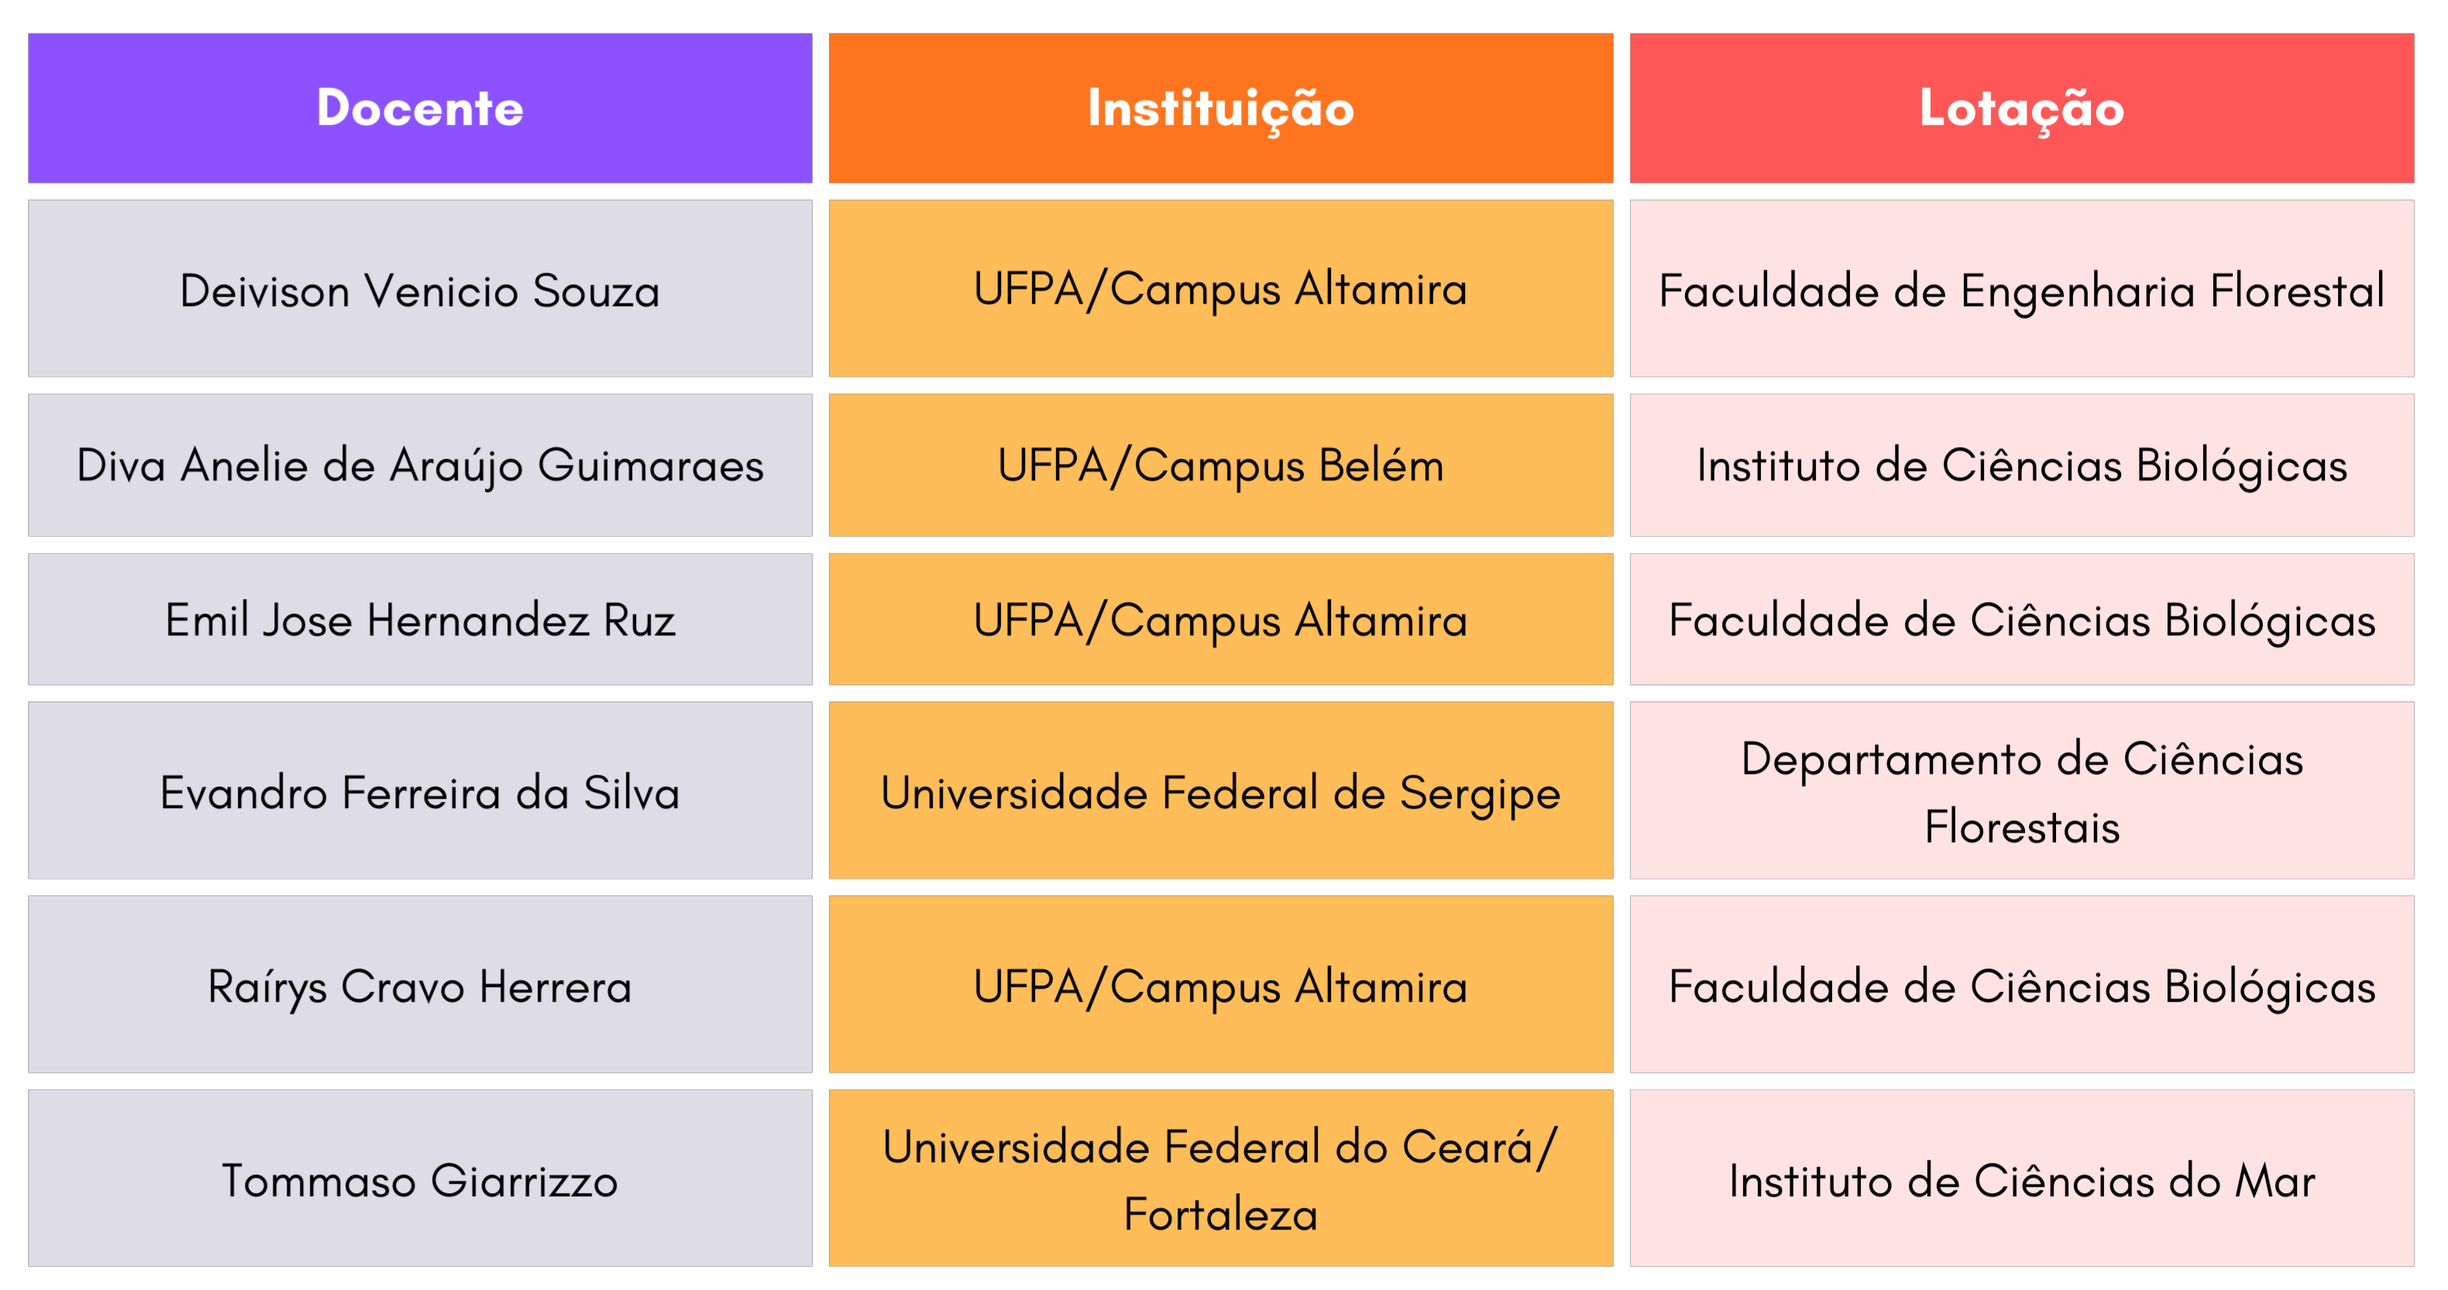
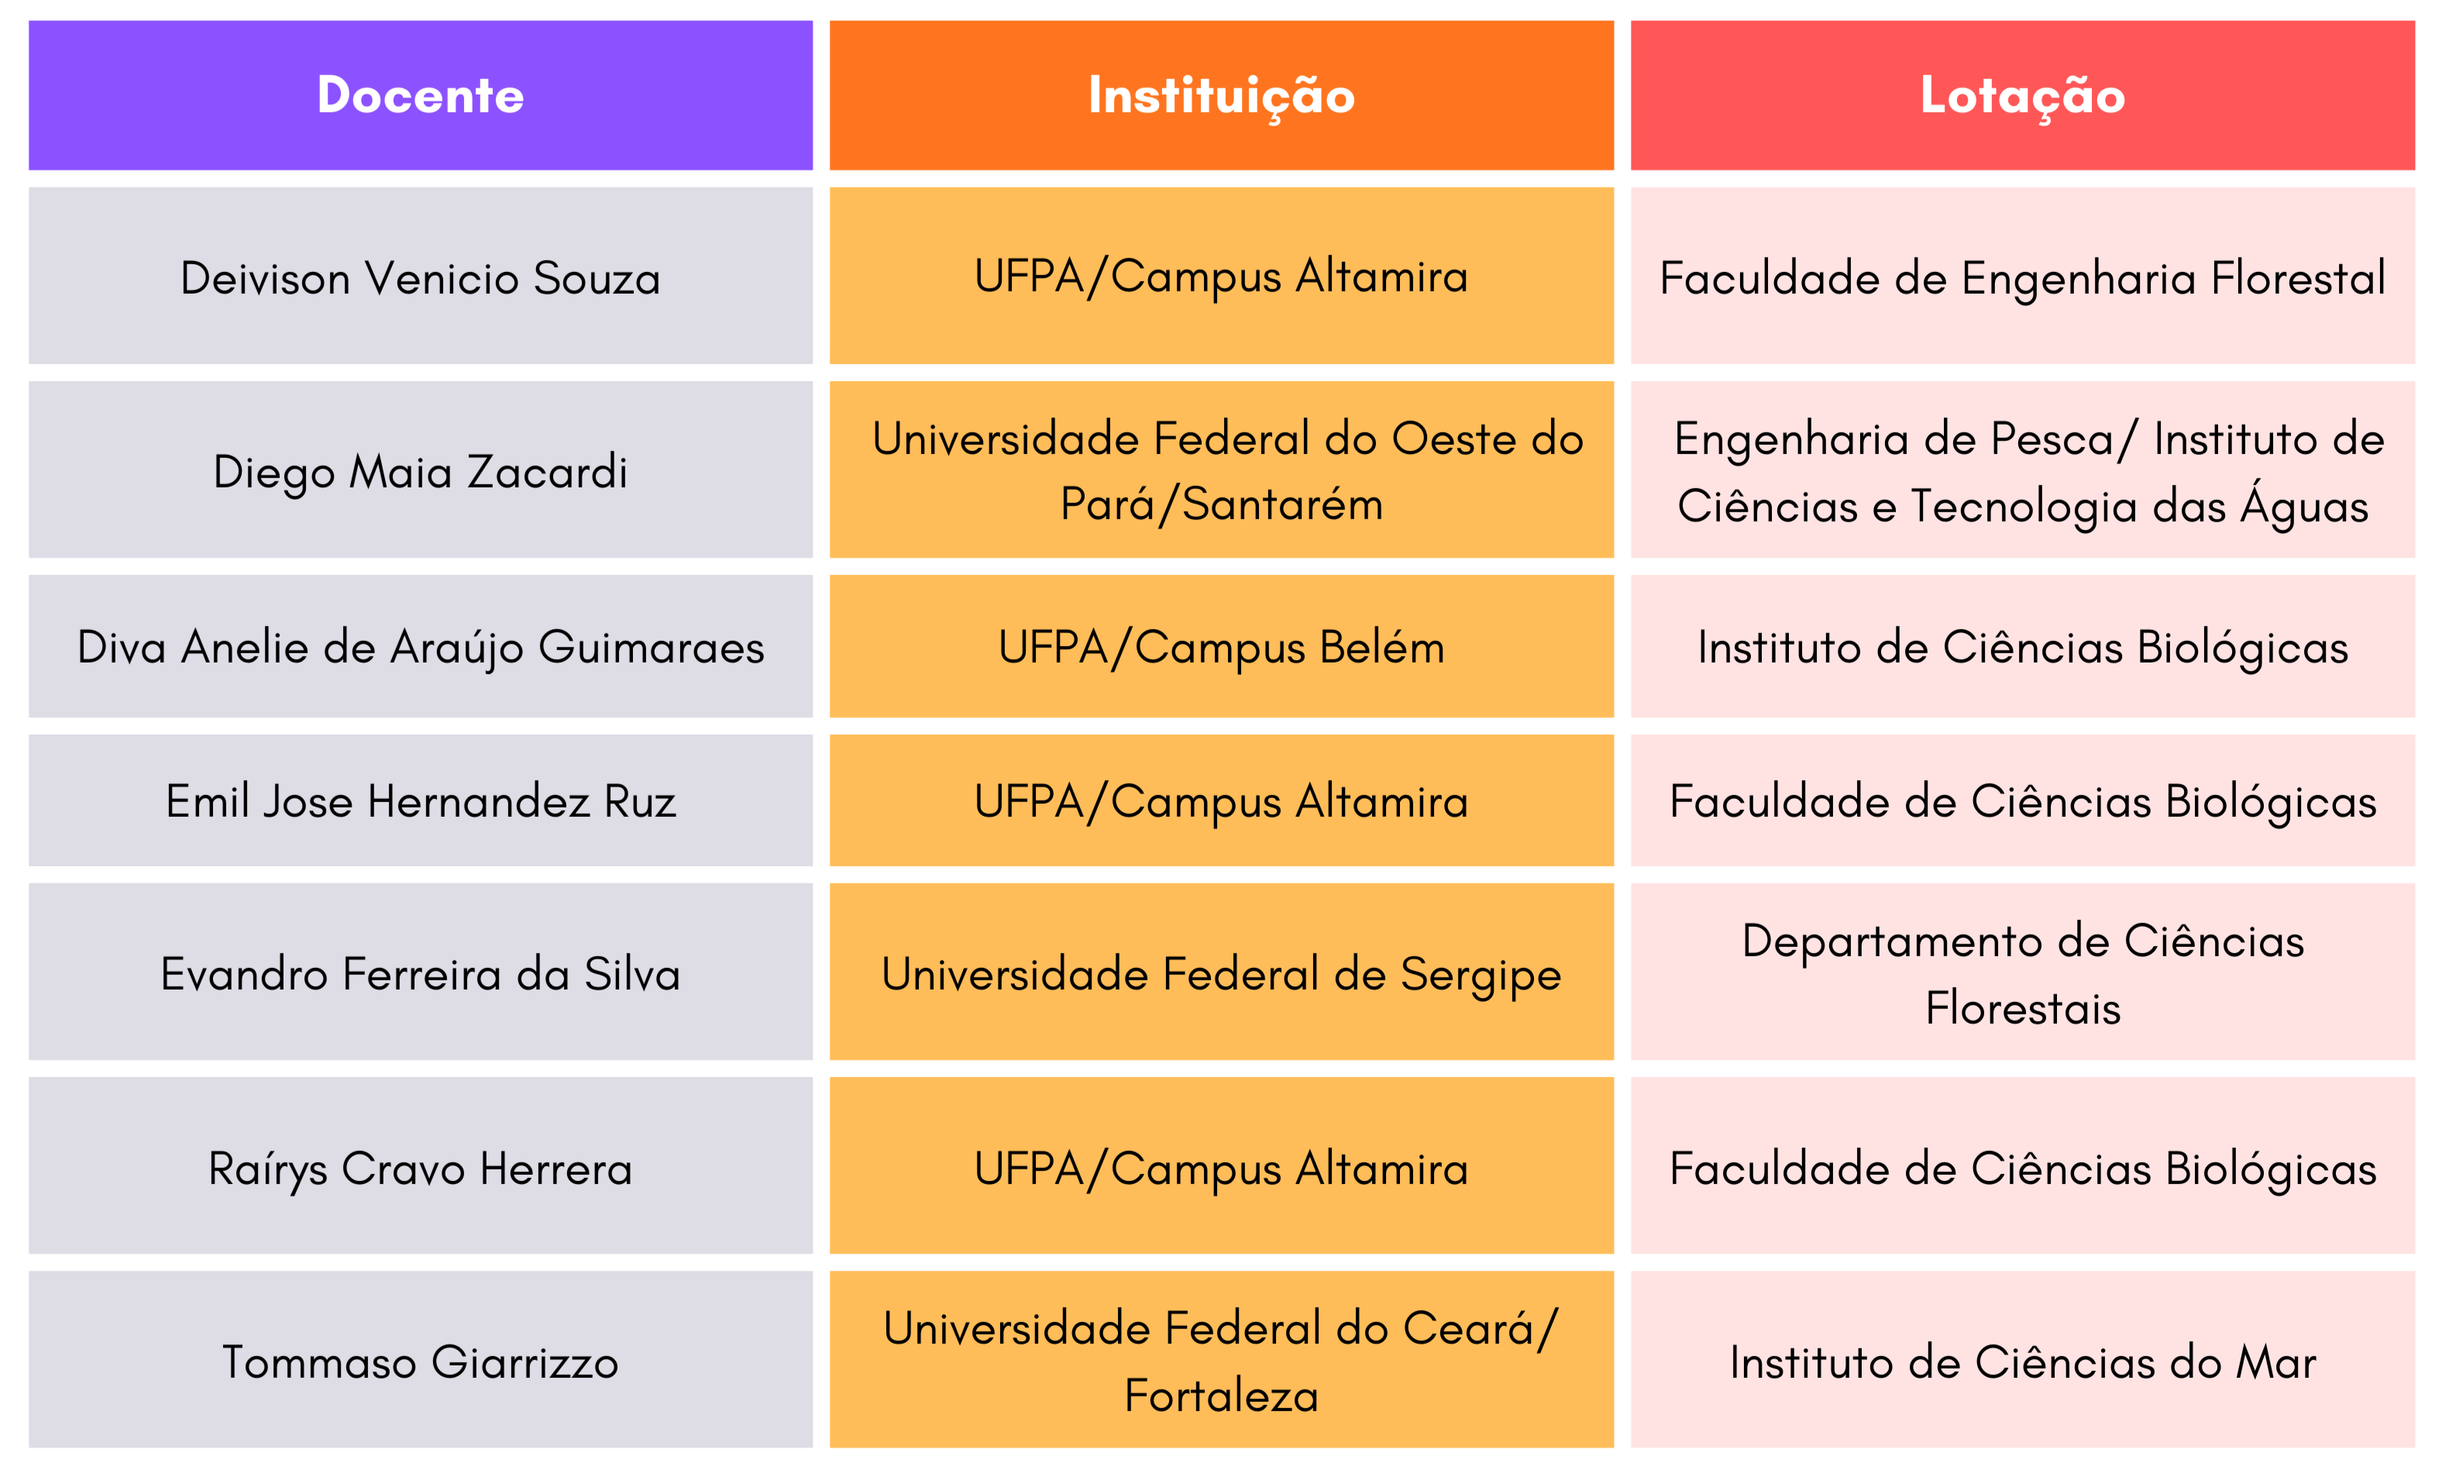
Update

diff --git a/Slides/01-CMBA.html b/Slides/01-CMBA.html
@@ -14,7 +14,7 @@
     <link href="01-CMBA_files/xaringanExtra-extra-styles-0.2.6/xaringanExtra-extra-styles.css" rel="stylesheet" />
     <link href="01-CMBA_files/tile-view-0.2.6/tile-view.css" rel="stylesheet" />
     <script src="01-CMBA_files/tile-view-0.2.6/tile-view.js"></script>
-    <script type="application/json" id="xaringanExtra-editable-docid">{"id":"x97854d9405e4aae9bdd31a2872f340a","expires":1}</script>
+    <script type="application/json" id="xaringanExtra-editable-docid">{"id":"x221f8fc69ad4d7ebe325c4ae1e1305c","expires":1}</script>
     <script src="01-CMBA_files/himalaya-1.1.0/himalaya.js"></script>
     <script src="01-CMBA_files/js-cookie-3.0.0/js.cookie.js"></script>
     <link href="01-CMBA_files/editable-0.2.6/editable.css" rel="stylesheet" />
@@ -95,7 +95,7 @@ background-size: 150px, 130px, 300px, cover
 ##### 👨🏻👩🏻👦🏻👦🏻 [@lmftca_ufpa](https://www.instagram.com/lmftca_ufpa/)
 ##### 🌎 [https://www.lmftca.com.br/](https://www.lmftca.com.br/)
 &lt;br&gt;
-##### 1ª versão: 27/fevereiro/2025 &lt;br&gt; (Atualizado em: 03/março/2026) &lt;br&gt; Altamira, Pará
+##### 1ª versão: 27/fevereiro/2025 &lt;br&gt; (Atualizado em: 04/março/2026) &lt;br&gt; Altamira, Pará
 
 ---
 layout: true
@@ -117,6 +117,30 @@ layout: true
 background-image: url(fig/PPGBC.png), url(fig/cont.png)
 background-position: 99% 95%
 background-size: 200px, cover
+---
+## 😀 Nossa conversa...
+
+&lt;br&gt;
+
+🌿 Linhas de Pesquisa do PPGBC
+
+👩🏫 Corpo Docente
+
+🏛 Instituição de vínculo
+
+🎓 Formação acadêmica
+
+🔬 Área de atuação/pesquisa
+
+📚 Disciplinas ofertadas no PPGBC
+
+🧪 Laboratórios de pesquisa
+
+🌐 Redes sociais e sites
+
+📄 Publicações científicas em destaque
+
+
 ---
 ## 👩🏾🔬 Linhas de Pesquisa
 
@@ -192,6 +216,52 @@ background-size: 200px, cover
 ## 👩🏻🏫 Corpo Docente - Linha 2 (CMBA)
 
 &lt;img src="fig/docentes.png" width="80%" style="display: block; margin: auto;" /&gt;
+
+---
+## 👩🏻🏫 Corpo Docente - Linha 2 (CMBA)
+
+.pull-left-17[
+&lt;img src="fig/foto/Diego.jpg" width="70%" style="display: block; margin: auto;" /&gt;
+.font80[
+.center[.blue[**Diego Maia Zacardi**]]
+.center[Engenharia de Pesca/Instituto de Ciências e Tecnologia das Águas/UFOPA/Santarém]
+.center[[Currículo Lattes](https://lattes.cnpq.br/8348319991578546)]
+]
+]
+
+.pull-left-17[
+.shadow1[
+.font70[
+#### 🎓 **Formação Acadêmica**
+- Graduação em Engenharia de Pesca - UFRA (2005)
+- Mestrado em Ecologia Aquática e Aquicultura - UFPA/UFRA/EMBRAPA (2009)
+- Doutorado em Ecologia Aquática e Aquicultura - UFPA/UFRA/EMBRAPA (2014)
+]
+]
+]
+
+--
+
+.pull-left-17[
+.shadow1[
+.font70[
+#### 🔍 **Área(s) de Atuação**
+- Biodiversidade e conservação de recursos pesqueiros de águas interiores
+]
+]
+]
+
+--
+
+.pull-left-17[
+.shadow1[
+.font70[
+#### 📚 **Disciplina(s) no PPGBC**
+- Ecologia e Taxonomia de Comunidades Aquáticas - (.blue[**60h/4 créditos**])/(**Disciplina compartilhada**)
+]
+]
+]
+
 
 ---
 ## 👩🏻🏫 Corpo Docente - Linha 2 (CMBA)
@@ -498,7 +568,7 @@ __________________________
 .shadow1[
 .font70[
 #### 📚 **Disciplina(s) no PPGBC**
-- Ecologia e Taxonomia de Comunidades Aquáticas - (.blue[**60h/4 créditos**])/(**Disciplina compartilhada**)
+- Monitoramento Ambiental de Sistemas de Transposição de Peixes – STP (.blue[**45h/3 créditos**])
 ]
 ]
 ]
